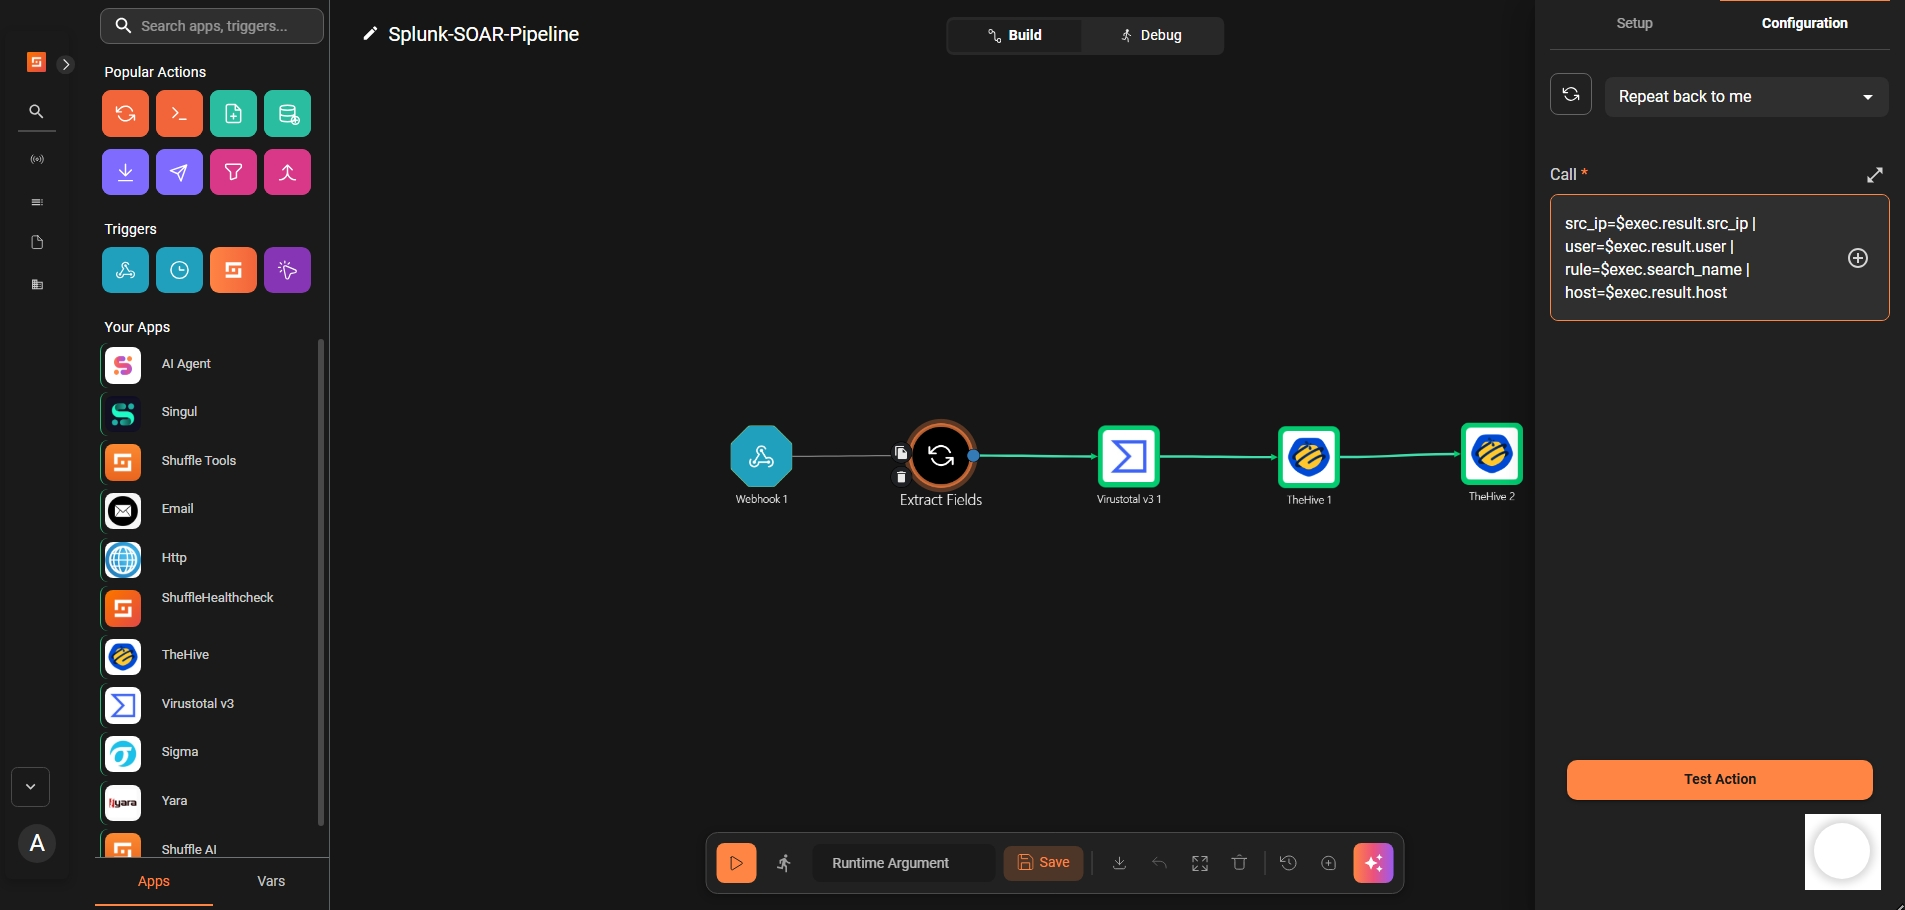
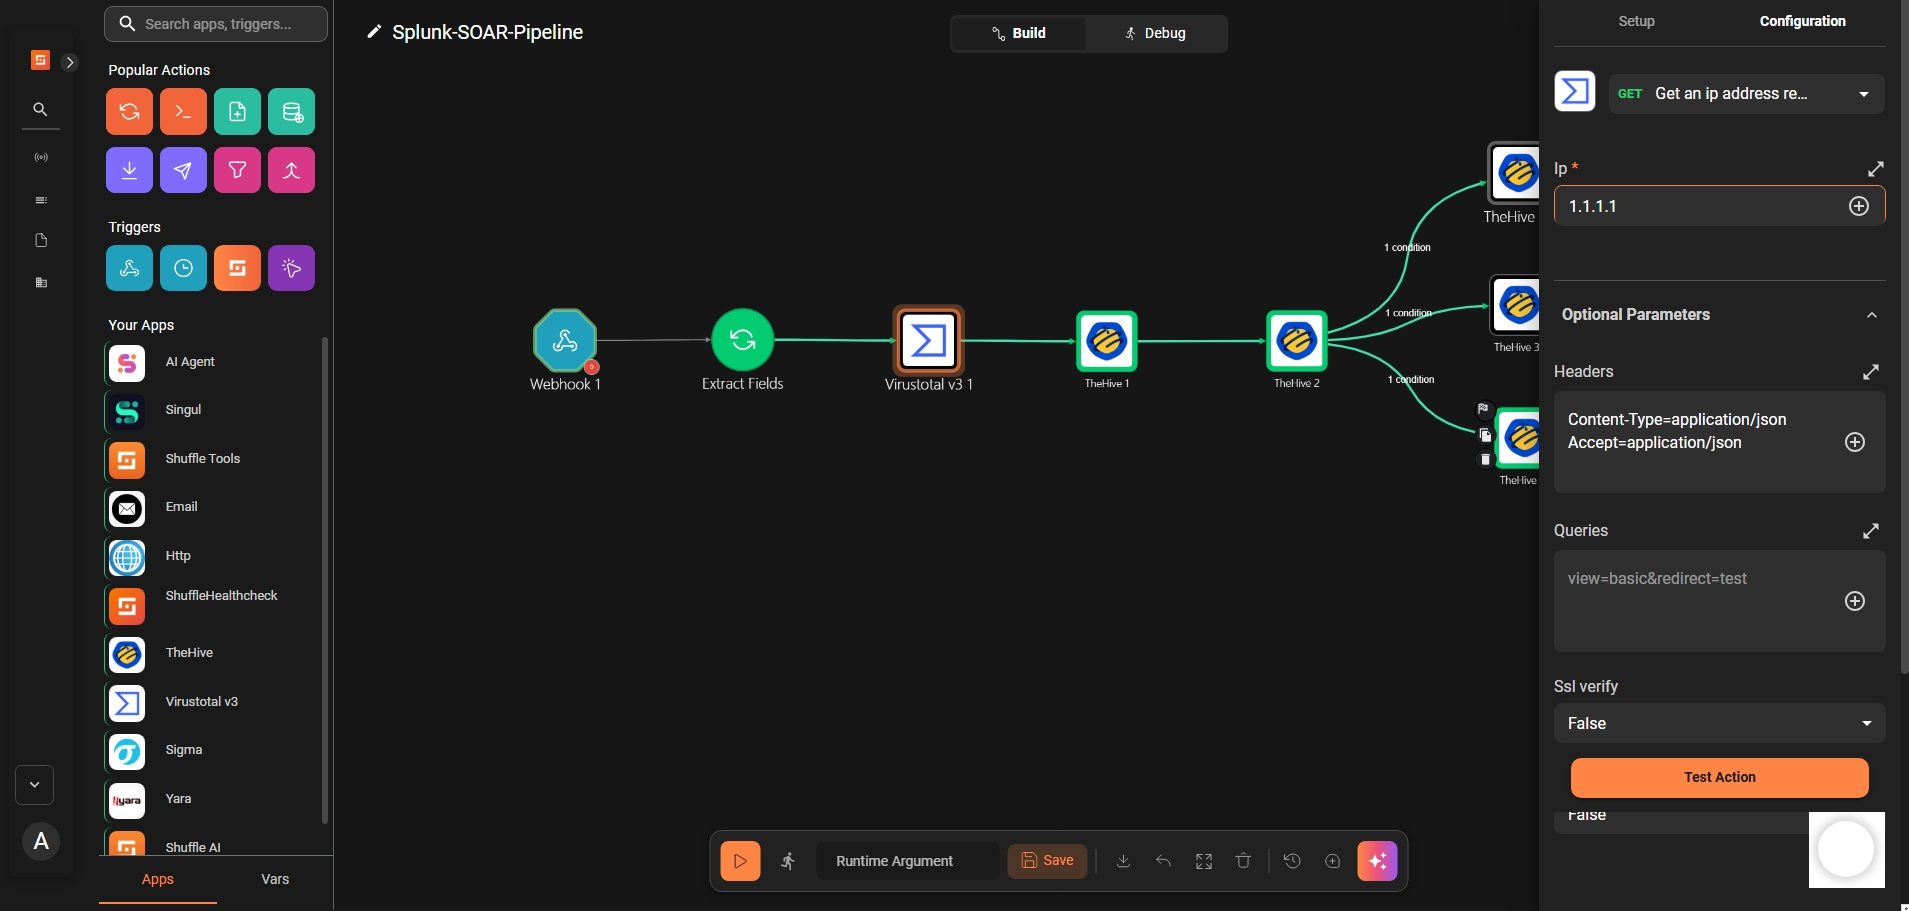
completed Shuffle SOAR Workflow

diff --git a/docs/phase4-shuffle-workflow.md b/docs/phase4-shuffle-workflow.md
@@ -1,177 +1,260 @@
-# Phase 4: Shuffle SOAR Workflow
+# Phase 4 - Shuffle SOAR Workflow
 
 ## Overview
 
-This phase covers building the Shuffle automation workflow: receive alert from Splunk → extract IOCs → enrich with VirusTotal → classify severity → create case in TheHive.
+This phase sets up an automated SOAR pipeline in Shuffle that:
+1. Receives alerts from Splunk via Webhook
+2. Extracts relevant fields from the alert payload
+3. Enriches IP with VirusTotal
+4. Creates a case in TheHive
+5. Adds the source IP as an observable
+6. Automatically sets case severity based on VirusTotal malicious score
 
 ---
 
-## 4.1 Workflow Overview
+## Workflow Name
+
+`Splunk-SOAR-Pipeline`
+
+---
+
+## Complete Flow
 
 ```
-[Webhook Trigger]
-      ↓
-[Extract Fields: src_ip, user, rule_name]
-      ↓
-[VirusTotal API – Lookup src_ip]
-      ↓
-[Check malicious score]
-      ↓
-[Set severity: Low / Medium / High]
-      ↓
-[Create Case in TheHive]
-      ↓
-[Create Observable: src_ip]
+Webhook (Trigger)
+    └─→ Extract_Fields (Shuffle Tools)
+            └─→ Virustotal (IP Reputation)
+                    └─→ TheHive_1 (Create Case)
+                            └─→ TheHive_2 (Create Observable)
+                                    ├─→ [malicious > 5]  → TheHive_3a (severity = High)
+                                    ├─→ [malicious > 2]  → TheHive_3b (severity = Medium)
+                                    └─→ [default]        → TheHive_3c (severity = Low)
 ```
 
 ---
 
-## 4.2 Setup VirusTotal API
+## Node Configuration
 
-1. Tạo tài khoản tại https://www.virustotal.com
-2. Lấy API Key: **Profile → API Key**
+### Node 1 — Webhook (Start Node)
+
+| Field | Value |
+|-------|-------|
+| Type | Trigger / Webhook |
+| Name | `Webhook 1` |
+| URL | `http://10.0.0.8:3001/api/v1/hooks/webhook_f6d4c46d-d498-41cb-92a4-acef3b174118` |
+
+**Expected payload from Splunk:**
+```json
+{
+  "result": {
+    "src_ip": "1.1.1.1",
+    "user": "administrator",
+    "count": "10",
+    "host": "Windows10"
+  },
+  "search_name": "Brute Force Detection"
+}
+```
 ![](../screenshots/phase4/image1.png)
 
 ---
 
-## 4.3 Setup TheHive App trong Shuffle
+### Node 2 — Extract Fields (Shuffle Tools)
 
-1. Shuffle → **Apps → TheHive**
-2. Authenticate:
-   - URL: `http://127.0.0.1:9000`
-   - API Key: Taken from TheHive
+| Field | Value |
+|-------|-------|
+| Type | Shuffle Tools |
+| Action | `repeat_back_to_me` |
+| Name | `Extract_Fields` |
+| Input | `$exec.result.src_ip` |
 
-
----
-
-## 4.4 Lấy TheHive API Key
-
-Login TheHive → **Admin → Users → admin → API Key → Create → copy**
-
-```
-API Key: WFF3fP0RhjcRZW5NG1F16TMyREFZ1xRR
-```
+Extracts `src_ip` from the Splunk alert payload for downstream use.
 ![](../screenshots/phase4/image2.png)
 
 ---
 
-## 4.5 Build Workflow – Step by Step
+### Node 3 — VirusTotal (IP Reputation)
 
-### Node 1: Webhook Trigger
+| Field | Value |
+|-------|-------|
+| Type | Virustotal v3 |
+| Action | `get_ip_report` |
+| Name | `Virustotal_1` |
+| IP | `$exec.result.src_ip` |
+| API Key | *(configured in Setup tab)* |
 
-- Type: `Webhook`
-- Automatically receive payload from Splunk
-
----
-
-### Node 2: Extract Fields
-
-- Type: `Shuffle Tools → Repeat back to me`
-- Input:
-
+**Key output field used downstream:**
 ```
-src_ip: $exec.result.src_ip
-user: $exec.result.user
-rule_name: $exec.search_name
+$virustotal.body.data.attributes.last_analysis_stats.malicious
 ```
 ![](../screenshots/phase4/image3.png)
 
 ---
 
-### Node 3: VirusTotal IP Lookup
+### Node 4 — TheHive_1 (Create Case)
 
-- App: `VirusTotal`
-- Action: `Get IP report`
-- Apikey: 86b879e3c6a024141e880a99db1e5dc38cc928088c563b34a756bdfb59dd3d2e
-- Input:
-  - `ip`: `1.1.1.1`
+| Field | Value |
+|-------|-------|
+| Type | TheHive 1.1.0 |
+| Action | `post_create_case` |
+| Name | `TheHive_1` |
+| Auth | `Auth for TheHive` |
+| URL | `http://172.18.0.1:9000` |
+
+**Body:**
+```json
+{"title": "Test Case"}
+```
+
+**Key output field used downstream:**
+```
+$thehive_1.body._id
+```
+
+> Note: Docker gateway IP `172.18.0.1` is used instead of `10.0.0.8` so Shuffle containers can reach TheHive.
+
+---
+
+### Node 5 — TheHive_2 (Create Observable)
+
+| Field | Value |
+|-------|-------|
+| Type | TheHive 1.1.0 |
+| Action | `post_create_observable_in_case` |
+| Name | `TheHive_2` |
+| Auth | `Auth for TheHive` |
+| IdOrName | `$thehive_1.body._id` |
+
+**Body:**
+```json
+{
+  "data": "$exec.result.src_ip",
+  "dataType": "ip"
+}
+```
 ![](../screenshots/phase4/image4.png)
 
 ---
 
-### Node 4: Check Score & Set Severity
+### Node 6a — TheHive_3a (Set Severity: High)
 
-- Type: `Shuffle Tools → Condition`
-- Condition:
+| Field | Value |
+|-------|-------|
+| Type | TheHive 1.1.0 |
+| Action | `Update case` |
+| Name | `TheHive_3a` |
+| Auth | `Auth for TheHive` |
+| IdOrName | `$thehive_1.body._id` |
+| severity | `3` |
 
+**Branch condition (on arrow from TheHive_2):**
 ```
-IF $virustotal.data.attributes.last_analysis_stats.malicious > 5
-  → severity = High
-ELSE IF > 2
-  → severity = Medium
-ELSE
-  → severity = Low
-```
-
----
-
-### Node 5: Create Case in TheHive
-
-- App: `TheHive`
-- Action: `Create case`
-- Input:
-
-```json
-{
-  "title": "Splunk Alert: $exec.webhook_1.search_name",
-  "description": "Source IP: $exec.webhook_1.result.src_ip\nUser: $exec.webhook_1.result.user\nVT Malicious Score: $exec.virustotal_v3_1.body.data.attributes.last_analysis_stats.malicious",
-  "severity": 2,
-  "tags": ["splunk", "automated", "soar", "CyberShield"],
-  "tlp": 2,
-  "status": "New",
-  "type": "external"
-}
-```
-![](../screenshots/phase4/image7.png)
-> Severity mapping: 1=Low, 2=Medium, 3=High
-
----
-
-### Node 6: Add Observable to Case
-
-- App: `TheHive`
-- Action: `Create observable`
-- Input:
-
-```json
-{
-  "caseId": "$thehive_1.body._id",
-  "dataType": "ip",
-  "data": "$exec.result.src_ip",
-  "tlp": 2,
-}
+$virustotal.body.data.attributes.last_analysis_stats.malicious > 5
 ```
 ![](../screenshots/phase4/image5.png)
 
 ---
 
-## 4.6 Test Workflow
+### Node 6b — TheHive_3b (Set Severity: Medium)
 
-1. Mở Shuffle → Workflow → **Run**
-2. Send test payload:
+| Field | Value |
+|-------|-------|
+| Type | TheHive 1.1.0 |
+| Action | `Update case` |
+| Name | `TheHive_3b` |
+| Auth | `Auth for TheHive` |
+| IdOrName | `$thehive_1.body._id` |
+| severity | `2` |
+
+**Branch condition (on arrow from TheHive_2):**
+```
+$virustotal.body.data.attributes.last_analysis_stats.malicious > 2
+```
+![](../screenshots/phase4/image6.png)
+
+---
+
+### Node 6c — TheHive_3c (Set Severity: Low)
+
+| Field | Value |
+|-------|-------|
+| Type | TheHive 1.1.0 |
+| Action | `Update case` |
+| Name | `TheHive_3c` |
+| Auth | `Auth for TheHive` |
+| IdOrName | `$thehive_1.body._id` |
+| severity | `1` |
+
+**Branch condition:** None (default / else branch)
+![](../screenshots/phase4/image7.png)
+
+---
+
+## Severity Mapping
+
+| VirusTotal Malicious Score | Severity Level | TheHive Value |
+|---------------------------|----------------|---------------|
+| > 5                       | High           | 3             |
+| > 2 and ≤ 5               | Medium         | 2             |
+| ≤ 2                       | Low            | 1             |
+
+![](../screenshots/phase4/image8.png)
+![](../screenshots/phase4/image9.png)
+![](../screenshots/phase4/image10.png)
+
+---
+
+## Authentication
+
+| Service | Field | Value |
+|---------|-------|-------|
+| TheHive | URL | `http://172.18.0.1:9000` |
+| TheHive | API Key | *(org user: `WFF3fP0RhjcRZW5NG1F16TMyREFZ1xRR`)* |
+| VirusTotal | API Key | *86b879e3c6a024141e880a99db1e5dc38cc928088c563b34a756bdfb59dd3d2e* |
+
+---
+
+## Test Command
 
 ```bash
-curl -X POST http://10.0.0.5:3001/api/v1/hooks/webhook_<id> \
+curl -X POST http://10.0.0.8:3001/api/v1/hooks/webhook_f6d4c46d-d498-41cb-92a4-acef3b174118 \
   -H "Content-Type: application/json" \
   -d '{
     "result": {
       "src_ip": "1.1.1.1",
       "user": "administrator",
       "count": "10",
-      "host": "WIN-AGENT"
+      "host": "Windows10"
     },
     "search_name": "Brute Force Detection"
   }'
 ```
-![](../screenshots/phase4/image8.png)
-
-
-3. Kiểm tra TheHive → case mới được tạo tự động.
-
-![](../screenshots/phase4/image9.png)
+![](../screenshots/phase4/image14.png)
 
 ---
 
-## 4.7 Export Workflow
+## Expected Results
 
-Shuffle → Workflow → **Export** → lưu file `shuffle-workflow.json` vào thư mục `configs/`.
+| Node | Expected Status |
+|------|----------------|
+| Extract_Fields | success |
+| Virustotal_1 | 200 OK |
+| TheHive_1 | 201 Created |
+| TheHive_2 | 201 Created |
+| TheHive_3a/3b/3c | 204 No Content (one of them) |
+
+![](../screenshots/phase4/image11.png)
+![](../screenshots/phase4/image12.png)
+![](../screenshots/phase4/image13.png)
+
+---
+
+## Troubleshooting
+
+| Issue | Fix |
+|-------|-----|
+| TheHive 400 Invalid JSON | Clear all `${variable}` placeholders from body, keep only needed fields |
+| TheHive connection refused | Use `172.18.0.1` (Docker gateway) not `10.0.0.8` |
+| TheHive 403 Forbidden | Use org user API key, not super admin |
+| VirusTotal IP not parsed | Hardcode IP in node for testing, then use `$exec.result.src_ip` |
+| TheHive_2 URL has `//observable` | TheHive_1 failed — fix TheHive_1 first |
